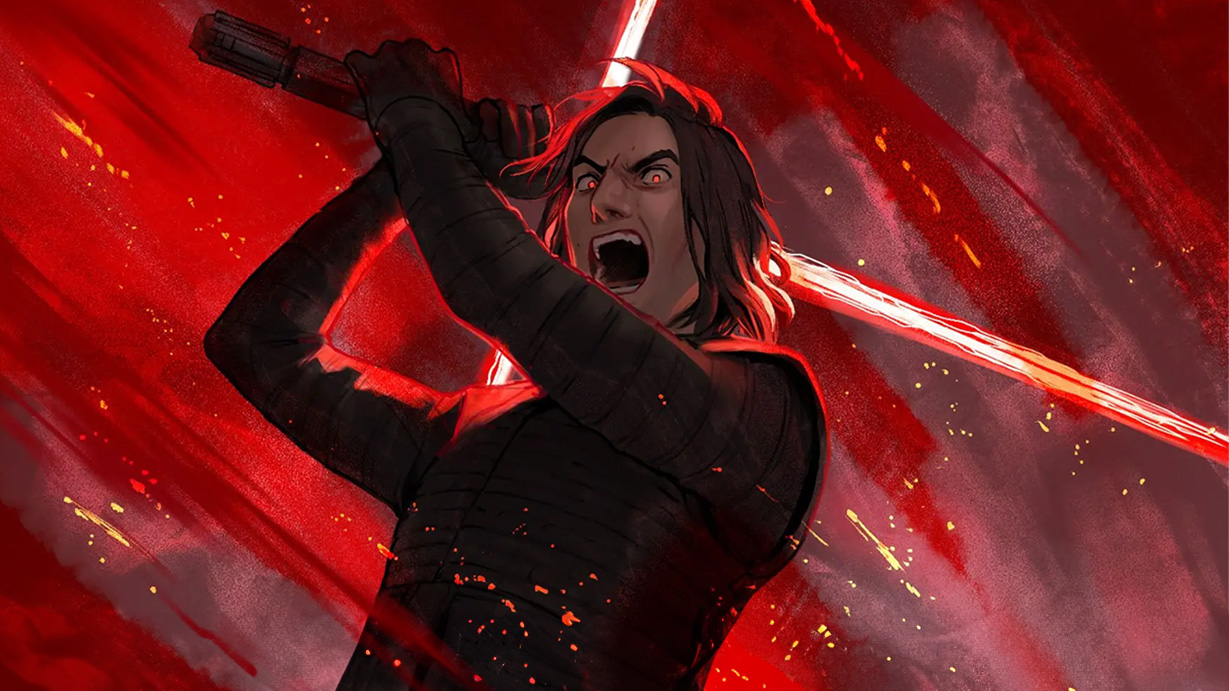
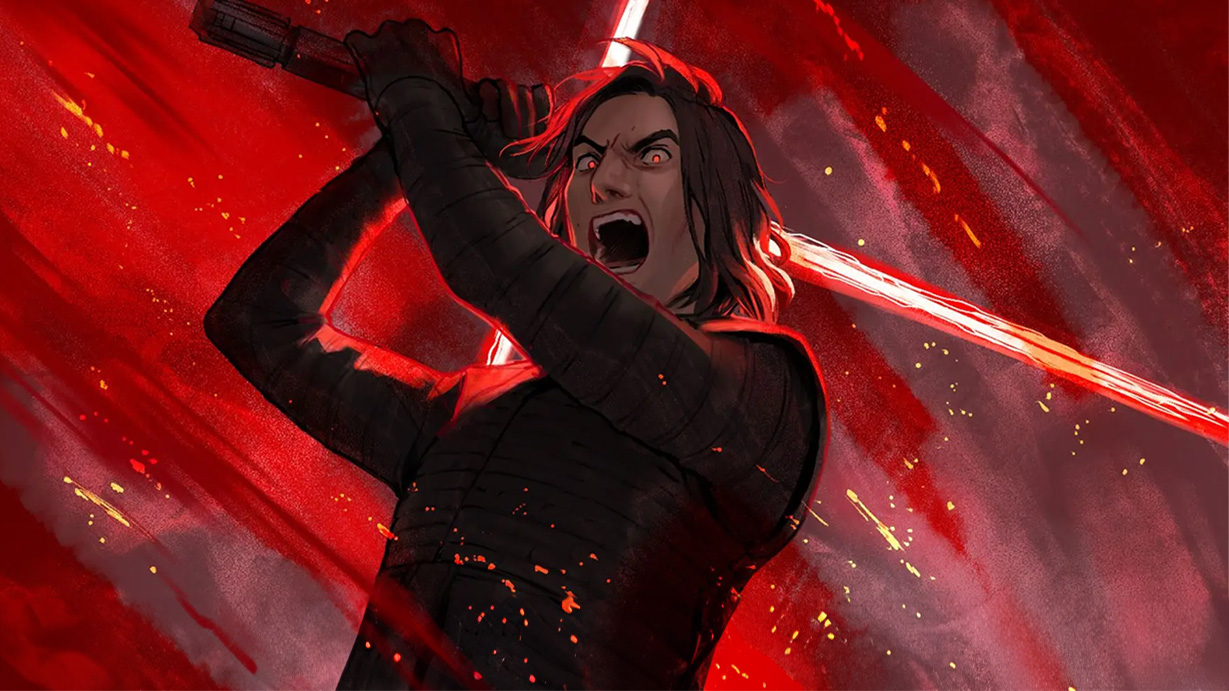
Header image revisions, more layout styling

diff --git a/css/karabast.css b/css/karabast.css
@@ -32,11 +32,22 @@ h4 {
   margin-bottom: 15px;
 }
 
-p {
-  font-size: 15px;
+p, label {
+  font-size: 16px;
   font-weight: 400;
+}
+
+p {
   line-height: 130%;
   margin-bottom: 15px;
+}
+
+.p-small {
+  font-size: 12px;
+}
+
+p a{
+  color: lightblue;
 }
 
 p:last-child { 
@@ -142,6 +153,7 @@ input, select {
 
 .title {
   text-decoration: none;
+  margin-top: 10px;
 }
 
 .home-header h1 {
@@ -150,10 +162,7 @@ input, select {
   margin-bottom: 5px;
 }
 
-.home-header h3 {
-  font-size: 16px;
-  font-weight: 400;
-  line-height: 130%;
+.home-header p {
   text-align: left;
 }
 
@@ -238,6 +247,10 @@ input, select {
   margin-bottom: 0;
 }
 
+.login-notice {
+  margin-bottom: 20px;
+}
+
 .progress-title-wrapper {
   display: flex;
   flex-direction: row;
@@ -264,11 +277,6 @@ input, select {
   margin: 0 5px 0 0;
 }
 
-.login-message {
-  margin: 25px 0 10px;
-  font-size: 16px;
-}
-
 #fabdb {
   margin-bottom: 10px;
 }
@@ -279,7 +287,7 @@ input, select {
 
 .game-name-label {
   display: block;
-  margin-top: 20px;
+  margin-top: 10px;
 }
 
 .privacy-label {
@@ -316,7 +324,34 @@ input, select {
   margin: 0 0 20px 0;
 }
 
-/* PROFILE ---------------------------------------------------------------------------------------------- */
+/* LOG IN --------------------------------------------------------------------------------------------------- */
+
+.username, .password {
+  width: 100%;
+}
+
+.login, .login-message {
+  margin-bottom: 20px;
+}
+
+.remember-me input {
+  margin: 0 5px 22px 0;
+}
+
+
+
+/* SIGN UP -------------------------------------------------------------------------------------------------- */
+
+.signup-form input {
+  width: 100%;
+}
+
+.signup-form-form {
+  margin-bottom: 20px;
+}
+
+
+/* PROFILE ------------------------------------------------------------------------------------------------- */
 
 .fav-decks {
   margin: 0 20px;

diff --git a/MainMenu.php b/MainMenu.php
@@ -76,7 +76,7 @@ include_once 'Header.php';
     if (count($favoriteDecks) > 0) {
       $selIndex = -1;
       if (isset($settingArray[$SET_FavoriteDeckIndex])) $selIndex = $settingArray[$SET_FavoriteDeckIndex];
-      echo ("<div class='SelectDeckInput'>Favorite Decks: ");
+      echo ("<div class='SelectDeckInput'>Favorite Decks");
       echo ("<select name='favoriteDecks' id='favoriteDecks'>");
       for ($i = 0; $i < count($favoriteDecks); $i += 4) {
         echo ("<option value='" . $i . "<fav>" . $favoriteDecks[$i] . "'" . ($i == $selIndex ? " selected " : "") . ">" . $favoriteDecks[$i + 1] . "</option>");
@@ -94,7 +94,7 @@ include_once 'Header.php';
   */
 
   ?>
-  <label for="fabdb"><u><a style='color:lightblue;' href='https://www.swudb.com/' target='_blank'>SWUDB</a></u> Deck Link (use the url or 'Deck Link' button):</label>
+  <label for="fabdb"><u><a style='color:lightblue;' href='https://www.swudb.com/' target='_blank'>SWUDB</a></u> Deck Link <span class="secondary">(use the url or 'Deck Link' button)</span></label>
   <input type="text" id="fabdb" name="fabdb">
   <?php
   if (isset($_SESSION["userid"])) {
@@ -104,11 +104,11 @@ include_once 'Header.php';
     echo ("</span>");
   }
   ?>
-  <label for="gameDescription" class='game-name-label'>Game Name:</label>
+  <label for="gameDescription" class='game-name-label'>Game Name</label>
   <input type="text" id="gameDescription" name="gameDescription" placeholder="Game #">
 
   <?php
-  echo ("<label for='format' class='SelectDeckInput'>Format: </label>");
+  echo ("<label for='format' class='SelectDeckInput'>Format</label>");
   echo ("<select name='format' id='format'>");
   if ($canSeeQueue) {
     echo ("<option value='cc' " . ($defaultFormat == 0 ? " selected" : "") . ">Premier</option>");
@@ -123,7 +123,7 @@ include_once 'Header.php';
     echo '<label for="public" class="privacy-label"><input class="privacy-input" type="radio" id="public" name="visibility" value="public" ' . ($defaultVisibility == 1 ? 'checked="checked"' : "") . '>';
     echo ('Public</label>');
   } else {
-    echo '<p class="login-message">&#10071;Log in to be able to create public games.</p>';
+    echo '<p class="login-notice">&#10071;Log in to be able to create public games.</p>';
   }
   ?>
   <label for="private" class='privacy-label'>

diff --git a/LoginPage.php b/LoginPage.php
@@ -16,24 +16,31 @@ include_once 'Header.php';
 
 <div class="flex-wrapper">
   <div class="login container bg-black">
-    <h2>Login</h2>
-    <h4> Enter your username, not your email </h4>
+    <h2>Log In</h2>
+    <p class="login-message">Make sure to use your username, not your email!</i></p>
+    
     <form action="./AccountFiles/AttemptPasswordLogin.php" method="post" class="LoginForm">
-      <input type="text" name="userID" placeholder="Username">
-      <input type="password" name="password" placeholder="Password">
-      <div class="RemberMeContainer">
-        <label for="rememberMe">Remember Me</label>
-        <input type="checkbox" checked='checked' id="rememberMe" name="rememberMe" value="rememberMe">
+      <label>Username</label>
+      <input class="username" type="text" name="userID">
+      <label>Password</label>
+      <input class="password" type="password" name="password">
+      <div class="remember-me">
+      <input type="checkbox" checked='checked' id="rememberMe" name="rememberMe" value="rememberMe">
+      <label for="rememberMe">Remember Me</label> 
       </div>
       <button type="submit" name="submit">Submit</button>
     </form>
     <form action="ResetPassword.php" method="post" style='text-align:center;'>
       <!-- <button type="submit" name="reset-password">Forgot Password?</button> -->
     </form>
-    <p>By using the Remember Me function, you consent to a cookie being stored in your browser for purpose of identifying
+  </div>
+
+  <div class="container bg-blue">
+    <p>By using the Remember Me function, you consent to a cookie being stored in your browser for the purpose of identifying
       your account on future visits.</p>
     <a href='./MenuFiles/PrivacyPolicy.php'>Privacy Policy</a>
   </div>
+    
 </div>
 
 <div class="flex-padder"></div>

diff --git a/Signup.php b/Signup.php
@@ -16,19 +16,16 @@ include_once 'Header.php';
   <h2>Sign Up</h2>
   <div class="signup-form-form">
     <form action="includes/signup.inc.php" method="post">
-      <label for="uid">Username
+      <label for="uid">Username</label>
         <input type="text" name="uid">
-      </label>
-      <label for="email">Email
+      <label for="email">Email</label>
         <input type="text" name="email" placeholder="name@example.com">
-      </label>
-      <label for="pwd">Password
-        <input type="password" name="pwd" placeholder="Password...">
-      </label>
-      <label for="pwdrepeat">Repeat password...
-        <input type="password" name="pwdrepeat" placeholder="Repeat password...">
-      </label>
-      <button type="submit" name="submit">SIGN UP</button>
+      <label for="pwd">Password</label>
+        <input type="password" name="pwd">
+      <label for="pwdrepeat">Repeat Password</label>
+        <input type="password" name="pwdrepeat">
+
+      <button type="submit" name="submit">Sign Up</button>
     </form>
   </div>
 

diff --git a/ServerChecker.php b/ServerChecker.php
@@ -179,18 +179,18 @@ if ($handle = opendir($path)) {
 }
 if ($canSeeQueue) {
   echo ("<h3>Premier</h3>");
+  echo ("<hr/>");
   echo ($ccLinks);
-  echo ("<hr/>");
   echo ("<h3>Request-Undo Premier</h3>");
-  echo ($compCCLinks);
   echo ("<hr/>");
+  echo ($compCCLinks);
   echo ("<h3>Other Formats</h3>");
+  echo ("<hr/>");
   echo ($otherFormatsLinks);
 }
 if (!$canSeeQueue) {
-  echo ("<div><b>&#10071;Log in to use matchmaking and see open matches</b></div><br>");
+  echo ("<p class='login-notice'>&#10071;<a href='./LoginPage.php'>Log In</a> to use matchmaking and see open matches</p>");
 }
-echo ("<hr/>");
 echo ("<div class='progress-title-wrapper'>");
 echo ("<h3 class='progress-header'>Games In Progress</h3>");
 echo ("<h3 class='progress-count'>$gameInProgressCount</h3>");

diff --git a/Header.php b/Header.php
@@ -4,8 +4,8 @@
     <a href="./MainMenu.php" class="title"> 
         <div class="title">
             <h1>Karabast</h1>
-            <h3>The Fan-Made, Open-Source <br>
-            Star Wars Unlimited Simulator</h3>
+            <p>The Fan-Made, Open-Source <br>
+            Star Wars Unlimited Simulator</p>
         </div>
     </a>
 
